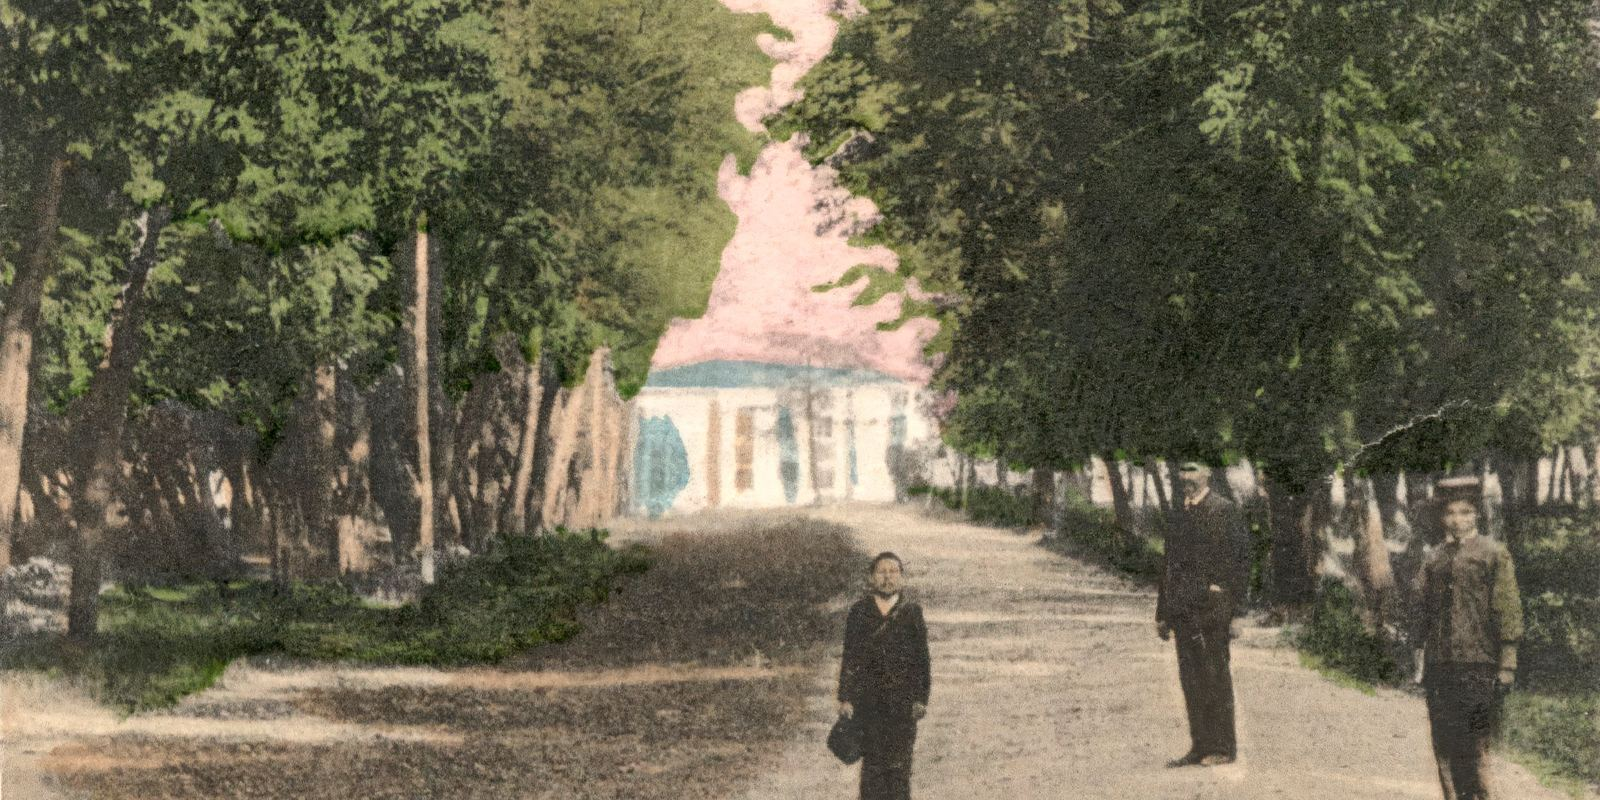
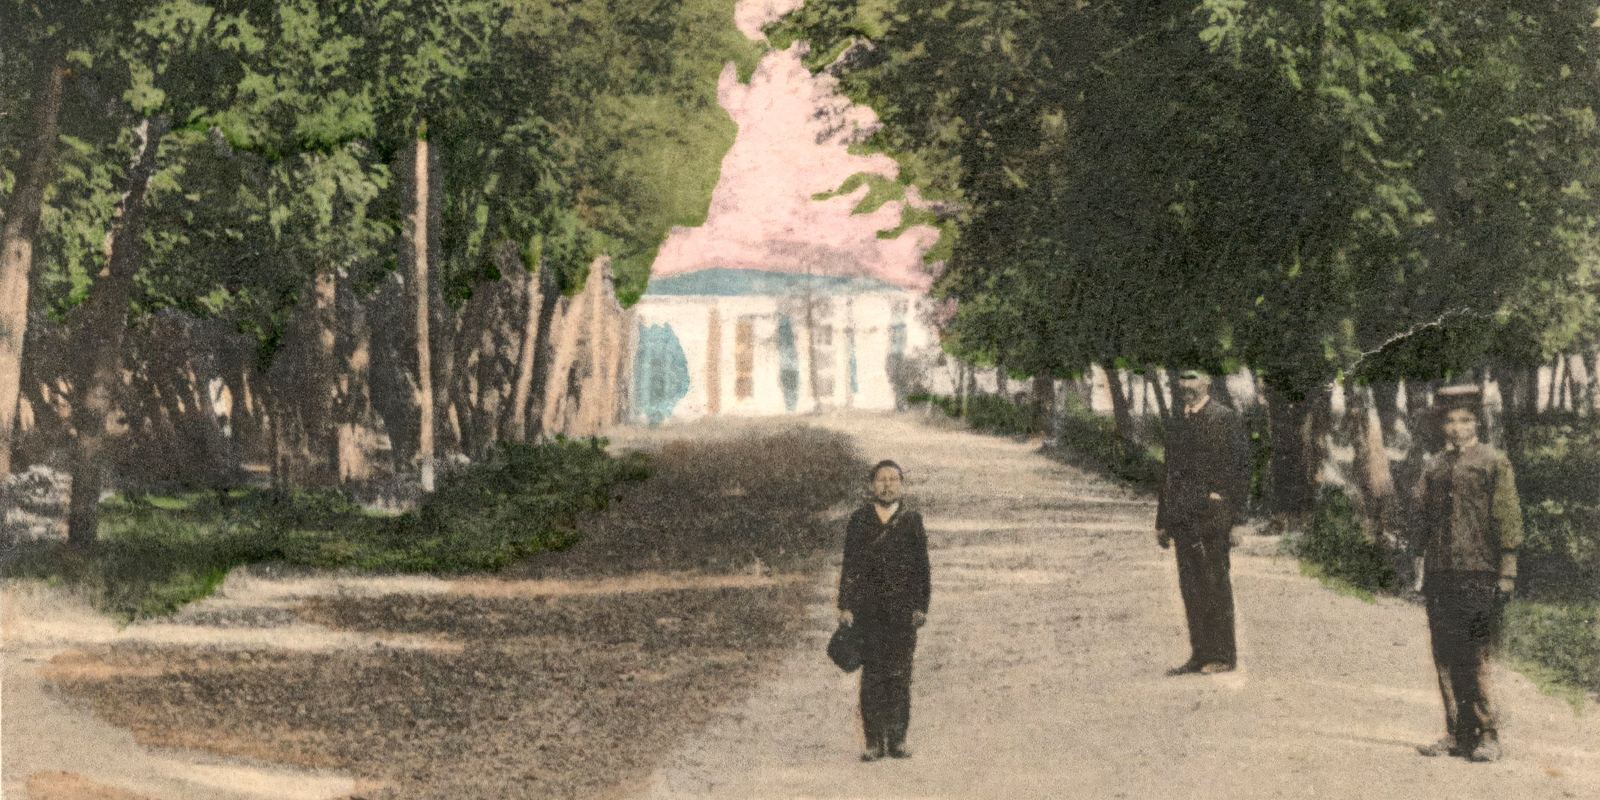
Luminiș hero: lower crop and narrower plate so no figure is covered
Claude-Session: https://claude.ai/code/session_01BAujE8LoFgdk9CzoThrBGc

diff --git a/luminis.html b/luminis.html
@@ -154,10 +154,12 @@ html{scroll-behavior:smooth}
 <img src="assets/img/hero-luminis.jpg" alt="Aleea parcului din Mizil cu trecători, carte poștală colorată de epocă" style="object-position: center">
 <div class="sala-plate">
 <div style="display: flex; flex-direction: column; gap: 4px">
+<div style="display: flex; align-items: flex-end; justify-content: space-between; gap: 16px">
 <span class="ral" style="font-style: italic; font-weight: 300; font-size: clamp(26px,3vw,44px); line-height: 1; color: #ffde4f">Sala</span>
+<svg width="64" height="56" style="flex: none; margin-bottom: 4px" viewBox="0 0 110 96" aria-hidden="true"><g fill="none" stroke="#ffde4f" stroke-width="3"><circle cx="8" cy="8" r="4"></circle><circle cx="24" cy="14" r="4"></circle><circle cx="40" cy="6" r="4"></circle><circle cx="56" cy="16" r="4"></circle><circle cx="72" cy="8" r="4"></circle><circle cx="32" cy="30" r="4"></circle><circle cx="52" cy="34" r="4"></circle><circle cx="80" cy="30" r="4"></circle><circle cx="64" cy="48" r="4"></circle><circle cx="84" cy="56" r="4"></circle><circle cx="70" cy="70" r="4"></circle><circle cx="90" cy="88" r="4"></circle></g></svg>
+</div>
 <h1 class="ral" style="margin: 0; font-weight: 800; font-size: clamp(52px,8vw,120px); line-height: 0.92; letter-spacing: -0.01em; text-transform: uppercase; color: #ffde4f">Luminiș</h1>
 </div>
-<svg width="110" height="96" style="flex: none; margin-bottom: 8px" viewBox="0 0 110 96" aria-hidden="true"><g fill="none" stroke="#ffde4f" stroke-width="3"><circle cx="8" cy="8" r="4"></circle><circle cx="24" cy="14" r="4"></circle><circle cx="40" cy="6" r="4"></circle><circle cx="56" cy="16" r="4"></circle><circle cx="72" cy="8" r="4"></circle><circle cx="32" cy="30" r="4"></circle><circle cx="52" cy="34" r="4"></circle><circle cx="80" cy="30" r="4"></circle><circle cx="64" cy="48" r="4"></circle><circle cx="84" cy="56" r="4"></circle><circle cx="70" cy="70" r="4"></circle><circle cx="90" cy="88" r="4"></circle></g></svg>
 </div>
 </figure>
 <div style="display: flex; flex-wrap: wrap; justify-content: space-between; align-items: flex-start; gap: 16px 48px">
